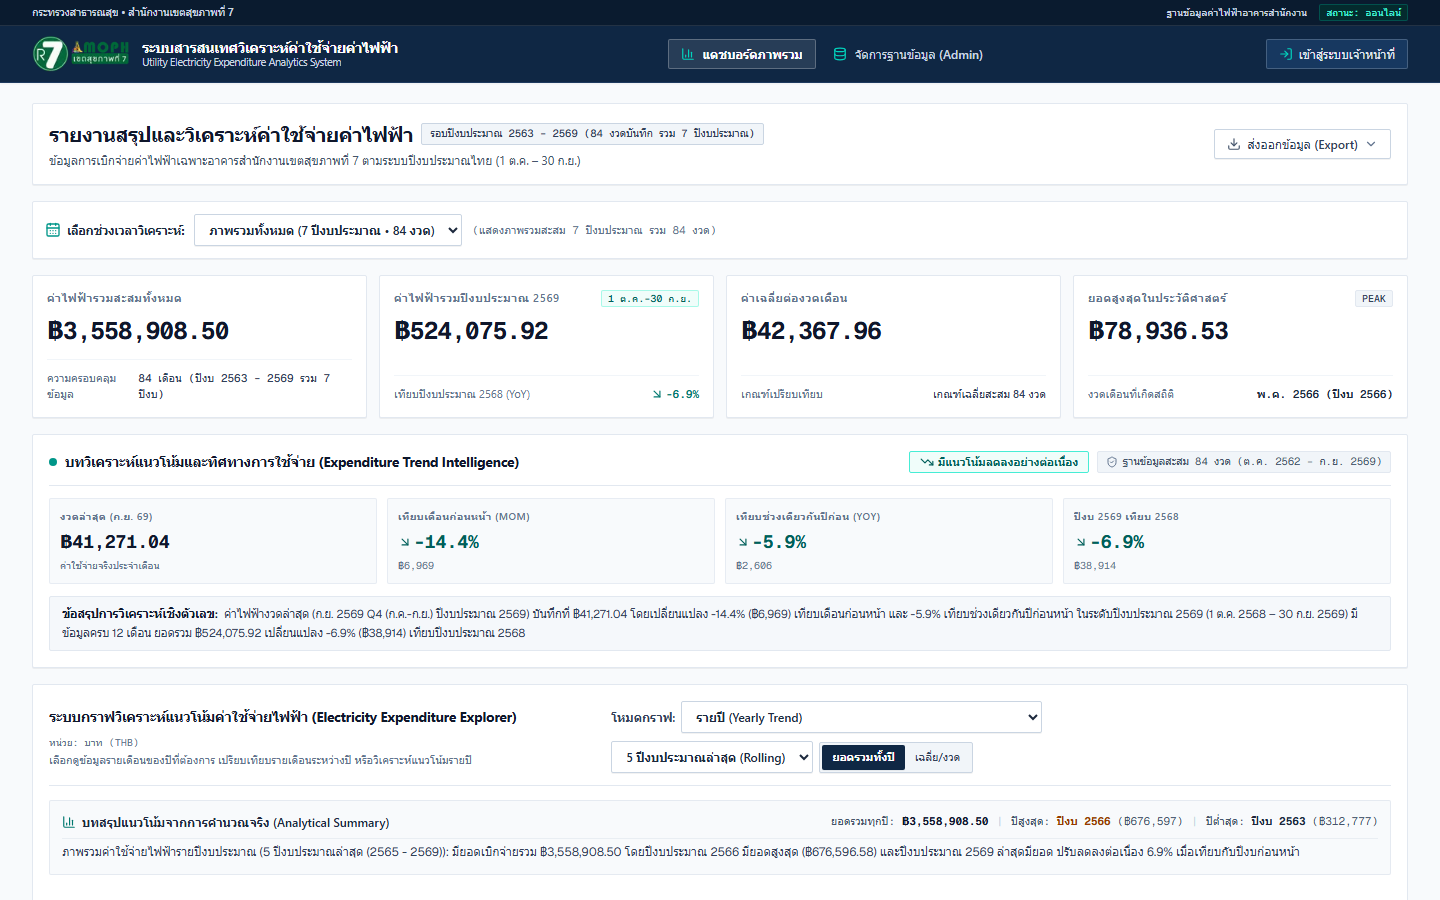
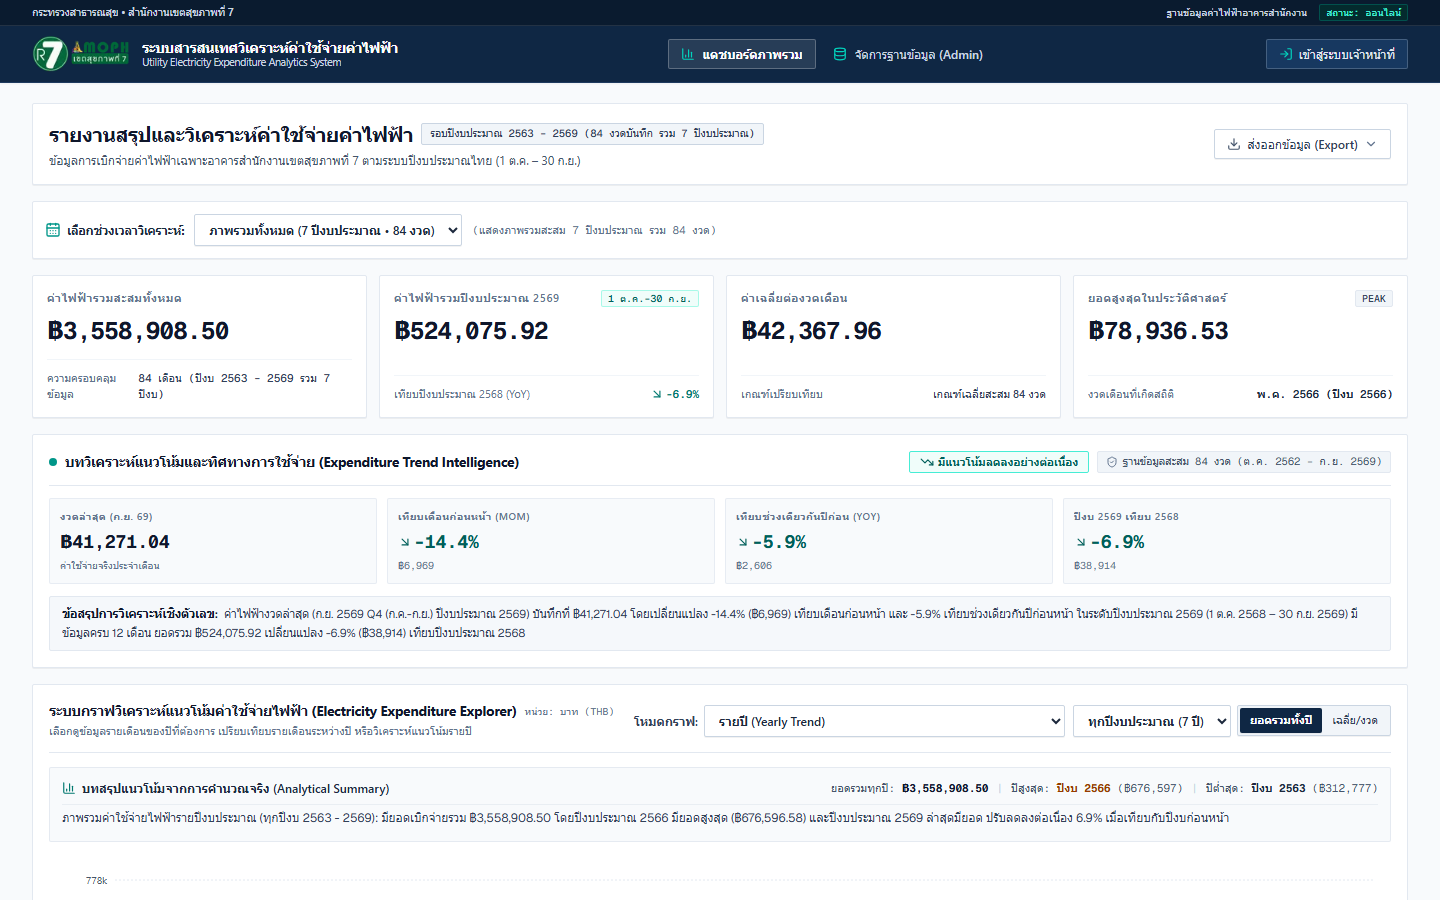
feat(charts): set all fiscal years as default for yearly trend view

Changed region(s): [[0.0312, 0.7778, 0.9375, 0.9644], [0.7188, 0.7778, 0.9688, 0.84]]

diff --git a/components/dashboard/explorer/explorer-toolbar.tsx b/components/dashboard/explorer/explorer-toolbar.tsx
@@ -195,14 +195,14 @@ export function ExplorerToolbar({
               onChange={(e) => setYearlyRange(e.target.value as '5' | '7' | '10' | 'all')}
               className="text-xs font-semibold border border-slate-300 hover:border-slate-400 bg-white text-slate-800 rounded-xs px-2.5 py-1.5 focus:outline-none focus:ring-2 focus:ring-[#0f2744] shadow-2xs cursor-pointer transition-colors"
             >
-              <option value="5">5 ปีงบประมาณล่าสุด (Rolling)</option>
+              <option value="all">ทุกปีงบประมาณ ({totalFiscalYearsCount} ปี)</option>
+              <option value="5">5 ปีงบประมาณล่าสุด</option>
               {totalFiscalYearsCount >= 7 && (
                 <option value="7">7 ปีงบประมาณล่าสุด</option>
               )}
               {totalFiscalYearsCount >= 10 && (
                 <option value="10">10 ปีงบประมาณล่าสุด</option>
               )}
-              <option value="all">ทุกปีงบประมาณ ({totalFiscalYearsCount} ปี)</option>
             </select>
 
             <div className="inline-flex rounded-xs border border-slate-300 p-0.5 bg-slate-100 shadow-2xs text-[11px]">

diff --git a/components/dashboard/expenditure-trend-explorer.tsx b/components/dashboard/expenditure-trend-explorer.tsx
@@ -45,8 +45,8 @@ export function ExpenditureTrendExplorer({
   );
   const [monthlyMetric, setMonthlyMetric] = useState<'amount' | 'cumulative'>('amount');
 
-  // 3. Yearly Trend Controls (Default: Rolling 5 Years to ensure future scalability)
-  const [yearlyRange, setYearlyRange] = useState<'5' | '7' | '10' | 'all'>('5');
+  // 3. Yearly Trend Controls (Default: 'all' as requested)
+  const [yearlyRange, setYearlyRange] = useState<'5' | '7' | '10' | 'all'>('all');
   const [yearlyMetric, setYearlyMetric] = useState<'total' | 'average'>('total');
 
   // 4. YoY Comparison Controls
